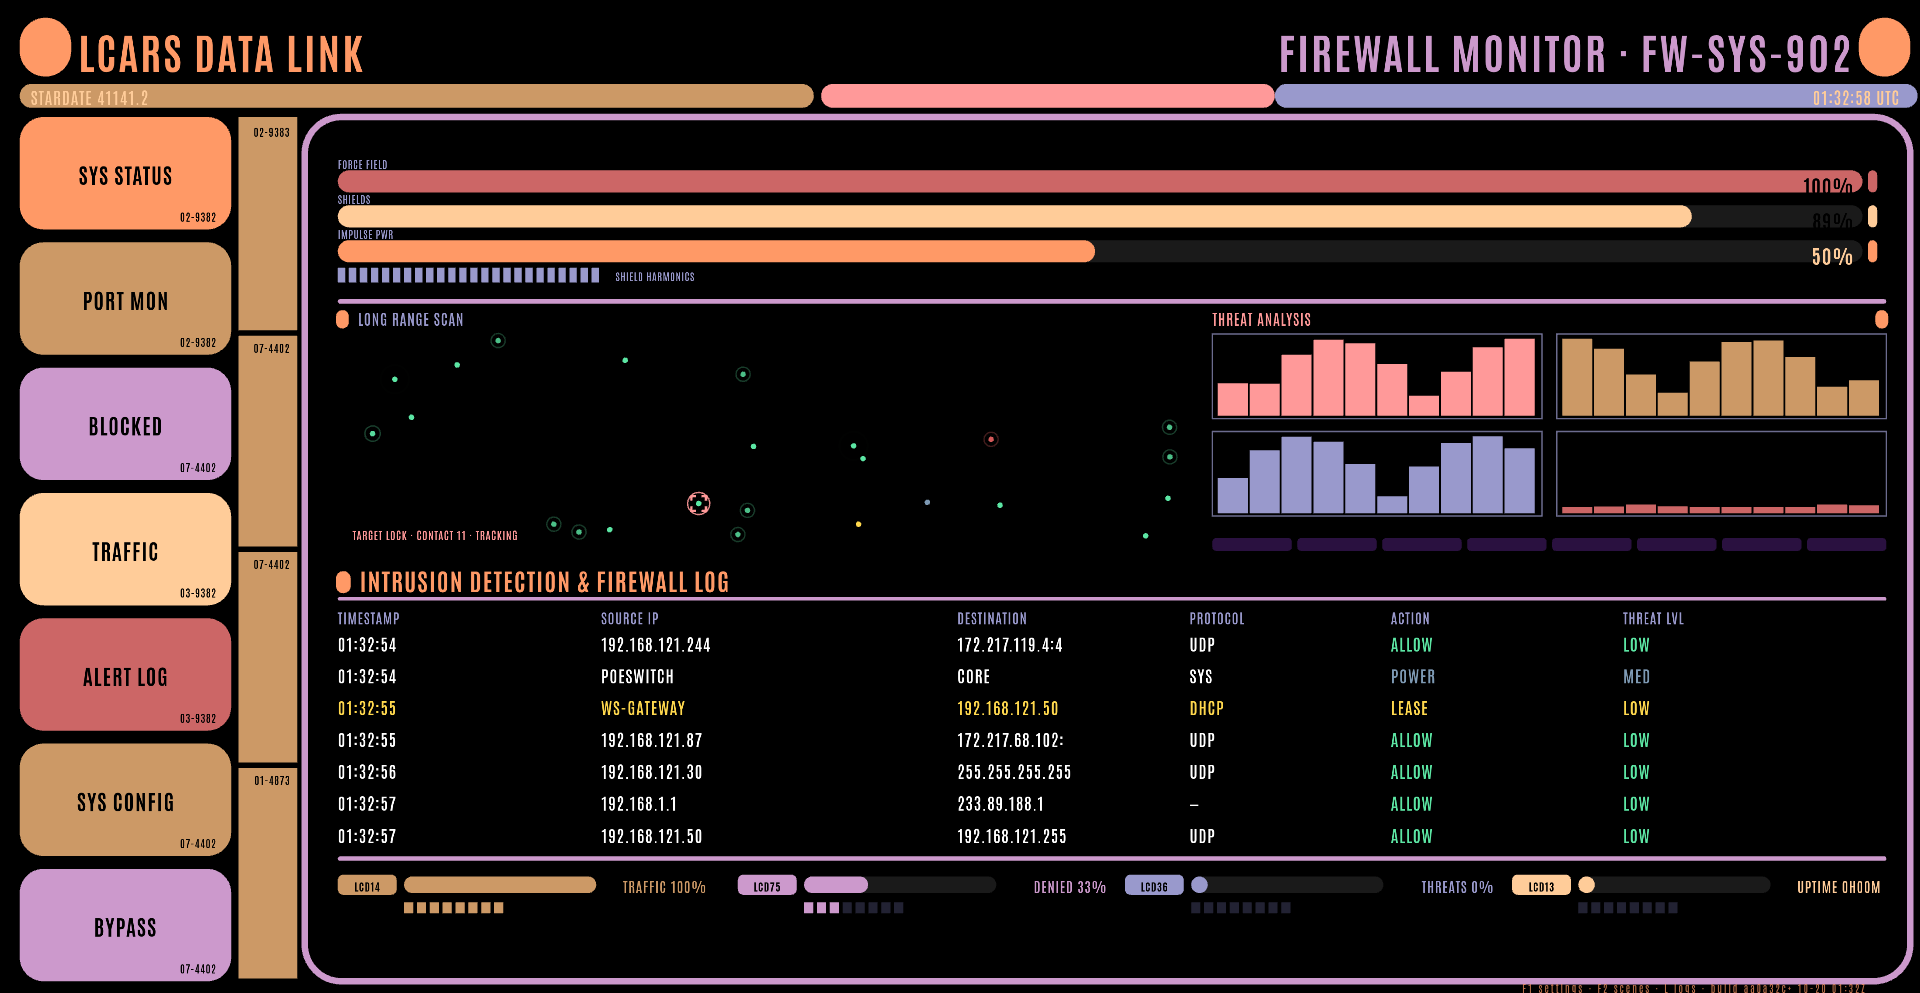
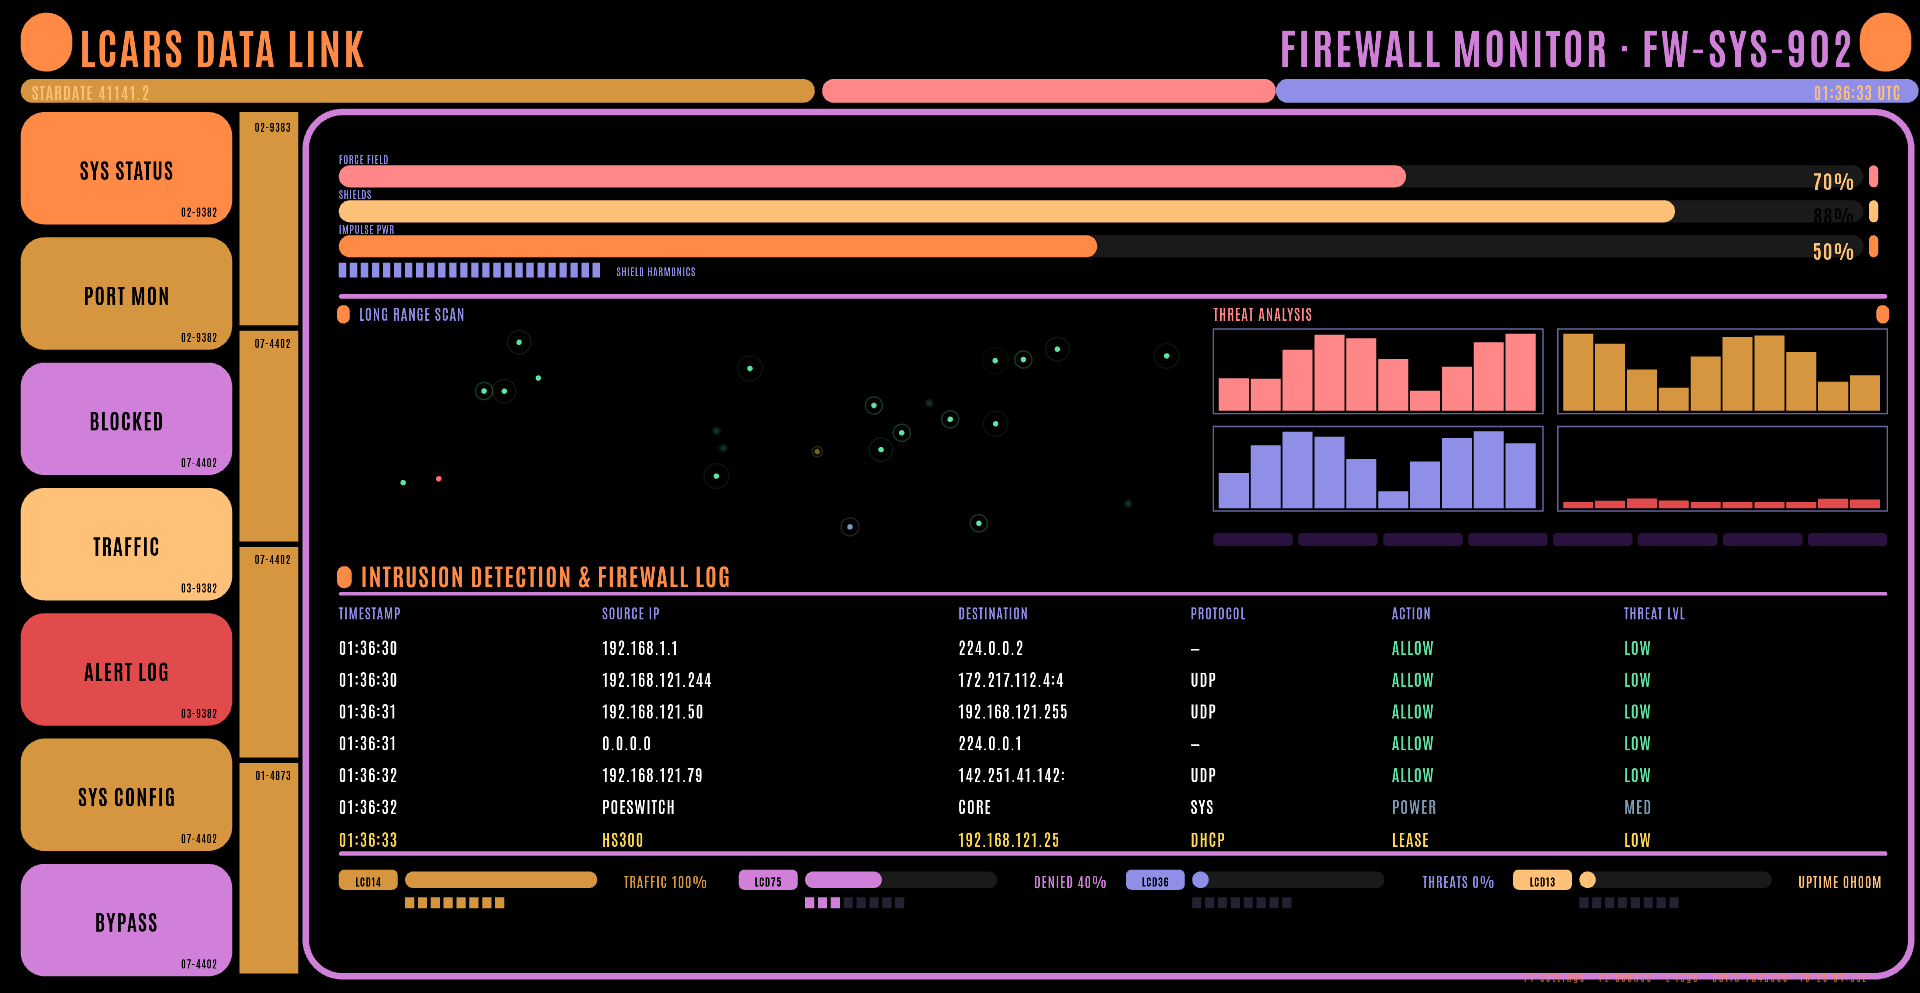
bridge: push the LCARS palette a step more saturated
Same chart hues, more punch against true black: orange #FF8A45,
gold #D6953F, lilac #D080D8, blue #8B8BFF, salmon #FF8787, red
#E14B4B. Settings panel and scene accent follow.

diff --git a/web/src/themes/bridge/hud.css b/web/src/themes/bridge/hud.css
@@ -16,7 +16,7 @@ body[data-theme="bridge"] #scanlines { display: none !important; }
 
 body[data-theme="bridge"] #hint {
   font-family: 'Antonio', 'Arial Narrow', sans-serif;
-  letter-spacing: 2px; color: #ff9966; opacity: 0.75;
+  letter-spacing: 2px; color: #ff8a45; opacity: 0.75;
 }
 body[data-theme="bridge"] #demo-badge {
   font-family: 'Antonio', 'Arial Narrow', sans-serif;
@@ -26,20 +26,20 @@ body[data-theme="bridge"] #demo-badge {
 /* the settings panel: peach chrome, black plates, Antonio labels */
 body[data-theme="bridge"] #settings {
   background: #000;
-  border: 3px solid #ff9966;
+  border: 3px solid #ff8a45;
   border-radius: 18px;
-  color: #ffcc66;
+  color: #ffc93f;
   font-family: 'Antonio', 'Arial Narrow', sans-serif;
   letter-spacing: 1px;
 }
-body[data-theme="bridge"] .set-top { border-bottom-color: #ff9966; }
+body[data-theme="bridge"] .set-top { border-bottom-color: #ff8a45; }
 body[data-theme="bridge"] .set-tab {
-  color: #000; background: #cc99cc; border-color: #000; border-radius: 8px;
+  color: #000; background: #d080d8; border-color: #000; border-radius: 8px;
 }
-body[data-theme="bridge"] .set-tab.active { background: #ff9966; }
+body[data-theme="bridge"] .set-tab.active { background: #ff8a45; }
 body[data-theme="bridge"] #settings select {
-  background: #26224a; color: #ffcc66; border-color: #9999ff;
+  background: #26224a; color: #ffc93f; border-color: #8b8bff;
 }
 body[data-theme="bridge"] .set-reset { color: #000; background: #ff9933; border-radius: 8px; }
-body[data-theme="bridge"] input[type="range"] { accent-color: #ff9966; }
-body[data-theme="bridge"] input[type="checkbox"] { accent-color: #ff9966; }
+body[data-theme="bridge"] input[type="range"] { accent-color: #ff8a45; }
+body[data-theme="bridge"] input[type="checkbox"] { accent-color: #ff8a45; }

diff --git a/web/src/themes/registry.ts b/web/src/themes/registry.ts
@@ -31,7 +31,7 @@ export const SCENES: Record<string, { title: string; blurb: string; accent: stri
   fragnet: { title: 'FRAGNET', blurb: 'Your network is Hell: a first-person patrol of a procedural maze where intruders are demons, allowed traffic is ammunition, and five traces open the exit.', accent: '#ff7a2a' },
   substrate: { title: 'Substrate', blurb: 'Your network draws on paper: every flow is a crack leaving the last one at right angles, hosts plant the seeds the plan grows from, and pigment washes the spaces between. A picture every couple of minutes, then a fresh one.', accent: '#b08050' },
   slipstream: { title: 'Slipstream', blurb: 'An eight-kart Mode 7 grand prix in 16-bit: every seat is a host and traffic is the draft, DHCP hands the quiet karts to new drivers, blocks leave oil, Wi-Fi joins light the boost pads, and threats fire red shells at the leader.', accent: '#ffd23f' },
-  bridge: { title: 'Bridge', blurb: 'Your network as a starship LCARS console: events land as blips on the long-range sweep and scroll down the intrusion log table, Wi-Fi lights the docking ports, and threats throw the deck into red alert.', accent: '#ff9966' },
+  bridge: { title: 'Bridge', blurb: 'Your network as a starship LCARS console: events land as blips on the long-range sweep and scroll down the intrusion log table, Wi-Fi lights the docking ports, and threats throw the deck into red alert.', accent: '#ff8a45' },
 };
 /** Themes in picker order: the known scenes first (as the README lists them), then any others. */
 export const SCENE_ORDER = [...Object.keys(SCENES).filter((id) => THEME_IDS.includes(id)), ...THEME_IDS.filter((id) => !(id in SCENES))];

diff --git a/web/src/themes/bridge/sprites.ts b/web/src/themes/bridge/sprites.ts
@@ -10,12 +10,13 @@ import { Graphics, Text, type TextStyleFontWeight } from 'pixi.js';
 /** The canonical LCARS palette (structure), plus the fixed event law (data). */
 export const L = {
   black: '#000000',
-  // The classic LCARS chart colours: warm, saturated, flat on black.
-  red: '#CC6666', dkred: '#993333',
-  orange: '#FF9966', peach: '#FFCC99', tan: '#CC9966', yellow: '#FFCC66',
-  salmon: '#FF9999', lilac: '#CC99CC', purple: '#CC99FF',
-  blue: '#9999FF', deepblue: '#6666CC', paleblue: '#9999CC',
-  cyan: '#66CCCC', green: '#99FF99',
+  // The classic LCARS chart colours, pushed a step more saturated so they
+  // sing against true black.
+  red: '#E14B4B', dkred: '#B23131',
+  orange: '#FF8A45', peach: '#FFC177', tan: '#D6953F', yellow: '#FFC93F',
+  salmon: '#FF8787', lilac: '#D080D8', purple: '#C080FF',
+  blue: '#8B8BFF', deepblue: '#5E5EE6', paleblue: '#8F8FE8',
+  cyan: '#35C9DC', green: '#5CF05C',
   gray: '#999999', white: '#FFFFFF',
 };
 
